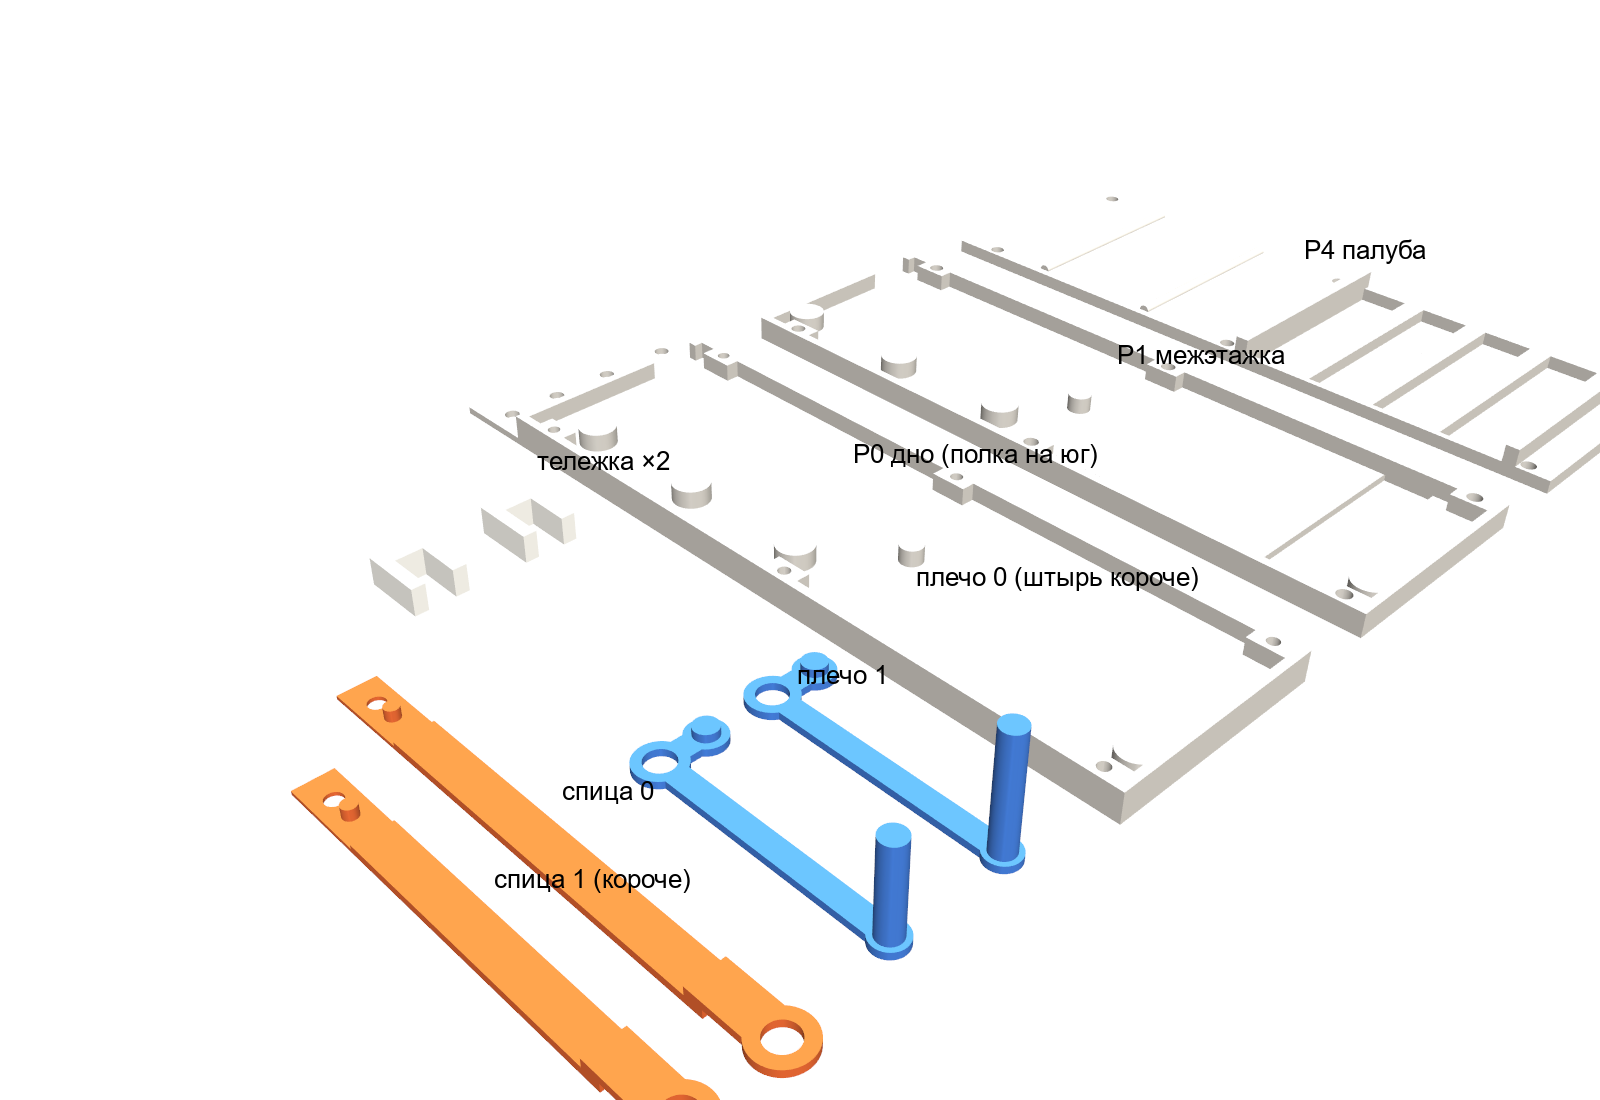
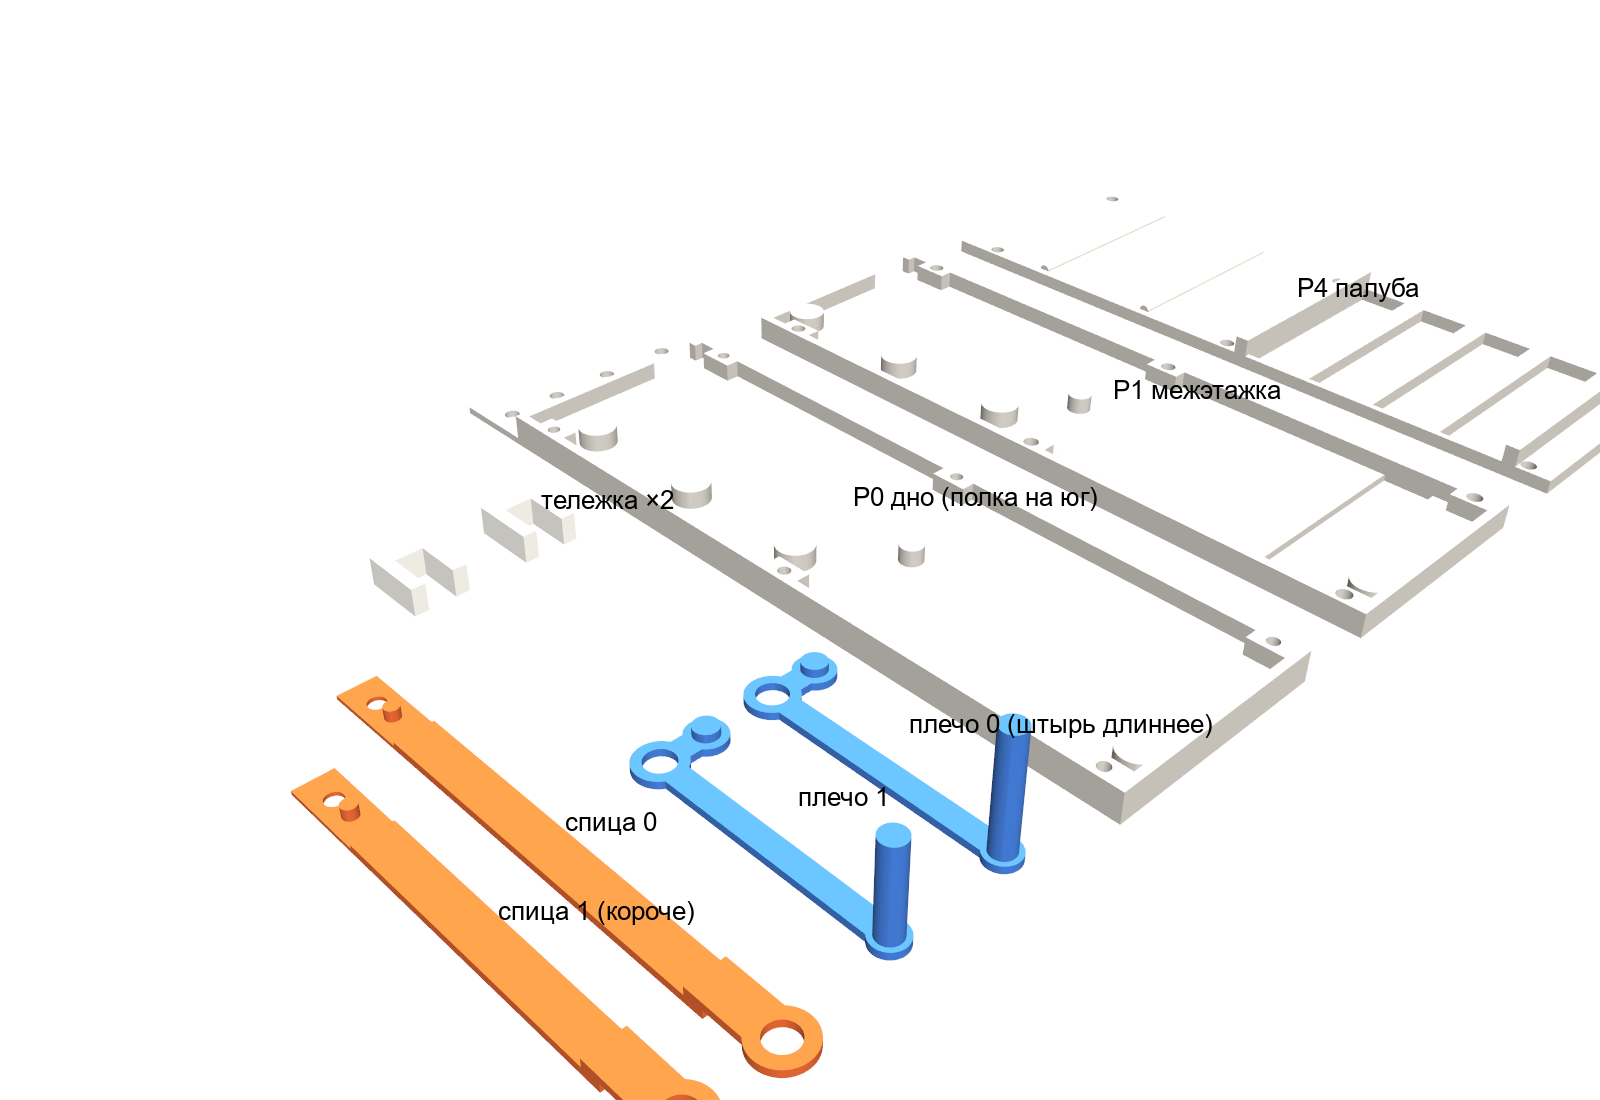
Инструкция: подписи обзора деталей у основания, плечо 0 = штырь длиннее

diff --git a/2-0/render_sborka_a.py b/2-0/render_sborka_a.py
@@ -95,7 +95,7 @@ carts = [load("gs1_cart", (0, CARTS_Y[k], Z_DECK_A + DECK_T), rz=180) for k in (
 lay = [("gs1_p0_base", (0, 0, 0), 0, C["plate"], "P0 дно (полка на юг)"),
        ("gs1_p1_mid", (70, 0, 0), 0, C["plate"], "P1 межэтажка"),
        ("gs1_p4_deck", (140, 0, 0), 0, C["plate"], "P4 палуба"),
-       ("gs1_arm0", (-45, 60, 0), 0, C["arm"], "плечо 0 (штырь короче)"),
+       ("gs1_arm0", (-45, 60, 0), 0, C["arm"], "плечо 0 (штырь длиннее)"),
        ("gs1_arm1", (-70, 60, 0), 0, C["arm"], "плечо 1"),
        ("gs1_spica0", (-95, 0, 0), 0, C["spica"], "спица 0"),
        ("gs1_spica1", (-113, 0, 0), 0, C["spica"], "спица 1 (короче)"),
@@ -107,7 +107,7 @@ for name, loc, rz, col, lab in lay:
     parts.append((m, col, 1.0))
     if lab:
         b = m.bounds
-        labels.append((((b[0] + b[1]) / 2, (b[2] + b[3]) / 2, b[5] + 6), lab))
+        labels.append((((b[0] + b[1]) / 2, (b[2] + b[3]) / 2, b[4] + 3), lab))   # подпись у основания, не у верха штыря
 scene(parts, os.path.join(OUT, "sborka_a_0_detali.png"), view="iso", labels=labels, zoom=0.85,
       focus=(-10, 90, 0))
 
